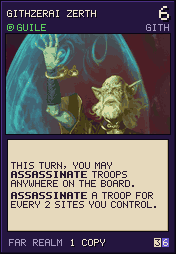
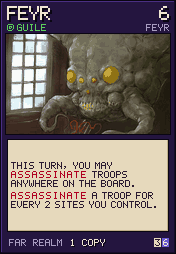
Stage NE-56: add Cthulhu, Feyr and Shoggoth and move Red Slaad

diff --git a/hs_unity/CARD_MAP.md b/hs_unity/CARD_MAP.md
@@ -277,9 +277,9 @@ S'theno, Neptulon TID, Neeru, Al'Akir NEW1 заменены свежими).
 | Githyanki Knight (50014) | Lothraxion the Redeemed (DMF_240) | `DMFFX_Lothraxion_CustomSummon.prefab` | астральный рыцарь |
 | Greater Star Spawn Emissary (50001) | Sargeras, the Destroyer (TTN_960) | `TTNFX_SargerasTheDestroyer_CustomSummon.prefab` | СДЕЛАНО (HsFx-79; владелец выбрал в HsBrowser 2026-10-27) |
 | Froghemoth Elder (50002) | The Exodar (GDB_120) | `GDBFX_TheExodar_CustomSummon.prefab` | СДЕЛАНО (HsFx-79; владелец выбрал в HsBrowser 2026-10-27) |
-| Githzerai Zerth (50003) | The Eternal Hold (TIME_446) | `TIME_EternalHold_CustomSummon.prefab` | СДЕЛАНО (HsFx-79; владелец выбрал в HsBrowser 2026-10-27) |
-| Thri-kreen Marauder (50004) | Grand Empress Shek'zara (DMF_516) | `DMFFX_GrandEmpressShakzara_CustomSummon.prefab` | богомол-воин |
-| Red Slaad (50005) | Blood-Queen Lana'thel (CORE_ICC_841) | `BloodQueenLanathel_CustomSummon.prefab` | СДЕЛАНО (HsFx-78; владелец выбрал в HsBrowser 2026-10-27) |
+| Feyr (50003) | — | — | NE-56: owner-selected creature replacement; no HS animation assigned. Previous binding freed. |
+| Cthulhu (50004) | — | — | NE-56: owner-selected creature replacement; no HS animation assigned. Previous binding freed. |
+| Red Slaad (50012) | Blood-Queen Lana'thel (CORE_ICC_841) | `BloodQueenLanathel_CustomSummon.prefab` | СДЕЛАНО (HsFx-78; владелец выбрал в HsBrowser 2026-10-27) |
 | Inquisitor of the Mind Fire (50006) | Archwitch Willow (CORE_SCH_181) | `SCHFX_ArchwitchWillow_CustomSummon.prefab` | СДЕЛАНО (HsFx-79; владелец выбрал в HsBrowser 2026-10-27) |
 | Groundling Stalker (50007) | Overlord Drakuru (RLK_913) | `RLKFX_Drakuru_CustomSummon.prefab` | СДЕЛАНО (HsFx-79; владелец выбрал в HsBrowser 2026-10-27) |
 | Eye Monger (50008) | The 8 Hands From Beyond (GDB_477) | `GDBFX_8HandsFromBeyond_CustomSummon.prefab` | СДЕЛАНО (HsFx-79; владелец выбрал в HsBrowser 2026-10-27) |

diff --git a/Codex outputs/far_ne56.md b/Codex outputs/far_ne56.md
@@ -1,0 +1,18 @@
+# Stage NE-56: owner-selected Far Realm creatures
+
+| Slot | Previous creature | New creature | Cost | Copies |
+|---|---|---|---|---|
+| 50004 | Thri-kreen Marauder | Cthulhu | 7 | 1 |
+| 50003 | Githzerai Zerth | Feyr | 6 | 1 |
+| 50005 | Red Slaad | Shoggoth | 6 | 1 |
+| 50012 | Thri-kreen Psion | Red Slaad | 2 | 3 |
+
+The owner chose Cthulhu, Feyr and Shoggoth explicitly. The preceding NE-55 swap remains: Elder Thing at 50000, Githyanki Knight at 50014. Original card-slot abilities, costs, aspects, VP and copy counts are unchanged. Names are unique throughout the full catalog. Sources and crop/miniature coordinates: far_ne56_changes.json. Art comes from D&D Beyond; the chosen close crops contain no transparent edges.
+
+Red Slaad retains its original illustration and miniature crop and takes the Blood-Queen Lana'thel recipe to 50012, including the local owner's hs_assign.tsv binding. The Eternal Hold binding from Githzerai Zerth is freed; Cthulhu, Feyr and Shoggoth have no HS animation assigned. Baked assets remain available. hs_assign.tsv was already untracked and remains local, as in NE-54. CARD_MAP and RECIPES contain the committed mapping.
+
+Russian names, races and Cthulhu's permanent-ability question are updated. Unrelated owner miniature coordinates are preserved and excluded from this commit.
+
+Validation: core tests 2270 passed, 0 failed; changed-card localization 2375/0; decision localization 267/0; term localization 2868/0. Catalog invariants confirm unchanged rules and copy counts, unique names, and unchanged unrelated miniature coordinates. English and Russian full faces and final miniatures reviewed.
+
+The earlier Qunbraxel, Zargon and Hazlik proposals remain unapproved and are not applied.
